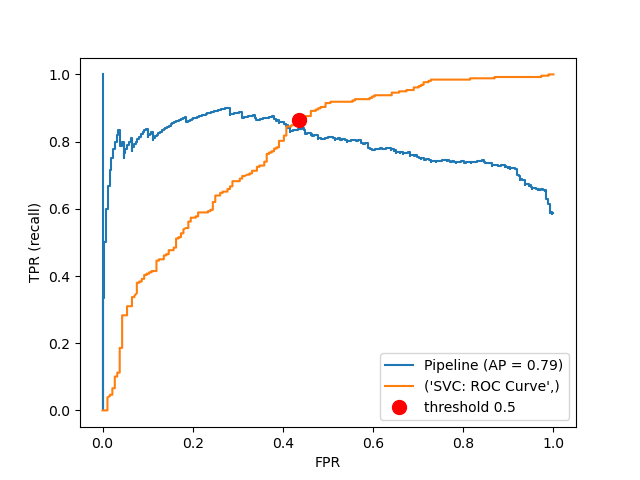
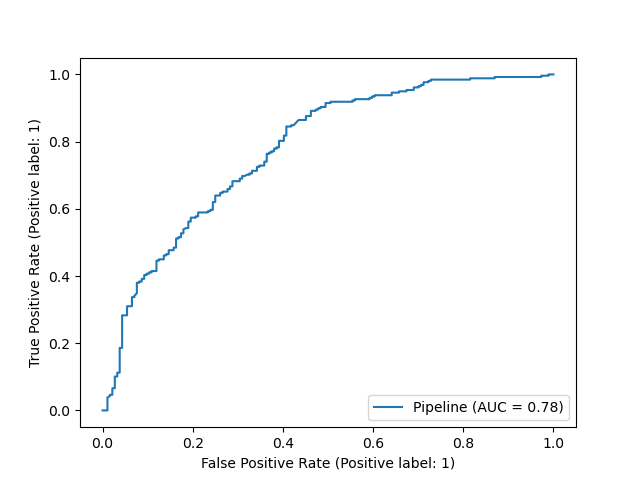
Change Predictions

diff --git a/src/predict.py b/src/predict.py
@@ -3,10 +3,11 @@
 
 """This code predicts the contraceptive method used based on the model derived from a pickle file and generates PR curve, Roc
 curve, classification report and confusion matrix.
-Usage: predict.py --test_path=<test_path>, --model=<model>, --output_path=<output_path>
+Usage: src/model.pickle --train_path=<train_path>, --test_path=<test_path>, --model=<model>, --output_path=<output_path>
 
 Options:
---test_path=<test_path>        path to the X test
+--train_path=<train_path>      path to the train set
+--test_path=<test_path>        path to the test set
 --model=<model>                pickle file containing to predict the targets of the testdata
 --output_path=<output_path>    path to save the files from the script locally
  """
@@ -27,6 +28,8 @@ from sklearn.metrics import (
     roc_curve
 )
 from sklearn.metrics import PrecisionRecallDisplay 
+from sklearn.metrics import RocCurveDisplay 
+from sklearn.metrics import ConfusionMatrixDisplay
 from sklearn.dummy import DummyClassifier, DummyRegressor
 from sklearn.impute import SimpleImputer
 from docopt import docopt
@@ -35,48 +38,21 @@ from docopt import docopt
 import pickle
 
 opt = docopt(__doc__)
-
-def plot_ROC_curve(y_true, y_pred):
-    """
-    Parameters
-    ---------
-    model :
-        scikit-learn model
-    y_true: numpy array or a Dataframe column
-            The values for y in the test set
-    y_pred: numpy array 
-            The values predicted for y by the model
-
-    Returns
-    --------
-    returns the roc plot for the given data
-    """
-
-    label="SVC: ROC Curve",
-    marker_colour="r",
-    marker_label="SVC default threshold",
-    fpr, tpr, thresholds = roc_curve(y_true, y_pred)
-    plt.plot(fpr, tpr, label=label)
-    plt.xlabel("FPR")
-    plt.ylabel("TPR (recall)")
-
-    default_threshold = np.argmin(np.abs(thresholds - 0.5))
-
-    plt.plot(
-        fpr[default_threshold],
-        tpr[default_threshold],
-        "or",
-        markersize=10,
-        label="threshold 0.5",
-    )
-    plt.legend(loc="best");
-
-def main(test_path,model, output_path):
+def main(train_path,test_path,model, output_path):
+    train_df = pd.read_csv(train_path)
     test_df = pd.read_csv(test_path)
+    
+    #splitting into X_train and y_train
+    X_train, y_train = train_df.drop(columns=["Contraceptive_method_used"]), train_df["Contraceptive_method_used"]
 
     #splitting into X_test and y_test
     X_test, y_test = test_df.drop(columns=["Contraceptive_method_used"]), test_df["Contraceptive_method_used"]
-
+    
+    
+    #Converting it to a binary model(train set)
+    y_train = y_train.replace(1,0)
+    y_train = y_train.replace([2,3],1)
+    
     #Converting it to a binary model(test set)
     y_test = y_test.replace(1,0)
     y_test = y_test.replace([2,3],1)
@@ -89,39 +65,30 @@ def main(test_path,model, output_path):
 
 
     #Confusion Matrix
-    confusion_matrix_report = confusion_matrix(y_test, y_pred)
+    final_svc_model.fit(X_train, y_train)
+    cm = ConfusionMatrixDisplay.from_estimator(
+    final_svc_model, X_test, y_test, values_format="d", display_labels=["contra_no", "contra_yes"]
+)
+    plt.savefig(output_path +"cm.png")
 
     #Classification Report
-    classificationreport = classification_report(
+    cl_report = classification_report(
         y_test, y_pred, target_names=["contra_no", "contra_yes"], output_dict=True)
     
-
-    try:
-        pd.DataFrame(confusion_matrix_report).to_csv(output_path+"confusion_matrix.csv")
-    except:
-        os.makedirs(os.path.dirname(output_path))
-        pd.DataFrame(confusion_matrix_report).to_csv(output_path+"confusion_matrix.csv")
     
-    try:
-        pd.DataFrame(classificationreport).to_csv(output_path+"classification_report.csv")
-    except:
-        os.makedirs(os.path.dirname(output_path))
-        pd.DataFrame(classificationreport).to_csv(output_path+"classification_report.csv")
-    
-
     # Generate PR Curve
     pr_curve = PrecisionRecallDisplay.from_estimator(final_svc_model, X_test, y_test)
     plt.savefig(output_path +"pr_curve.png")
 
     # Generate ROC Curve
     
-    roc_plot = plot_ROC_curve(y_test, final_svc_model.predict_proba(X_test)[:, 1])
+    roc_plot = RocCurveDisplay.from_estimator(final_svc_model, X_test, y_test)
     plt.savefig(output_path +"roc_curve.png")
 
 
 
 if __name__ == "__main__":
-    main(opt["--test_path"], opt["--model"],opt["--output_path"])
+    main(opt["--train_path"],opt["--test_path"], opt["--model"],opt["--output_path"])
 
 
      
